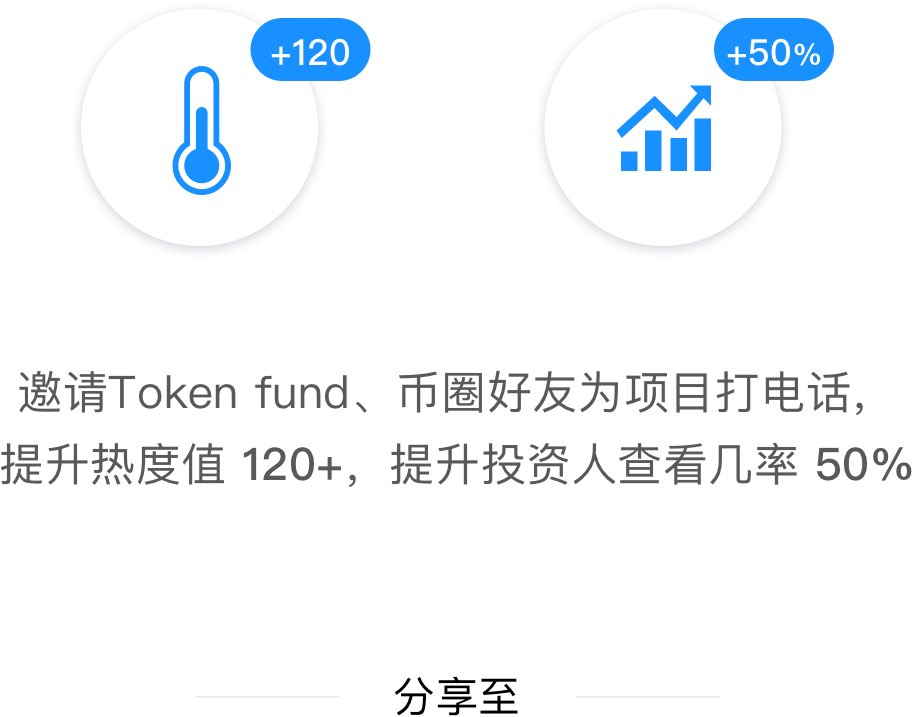
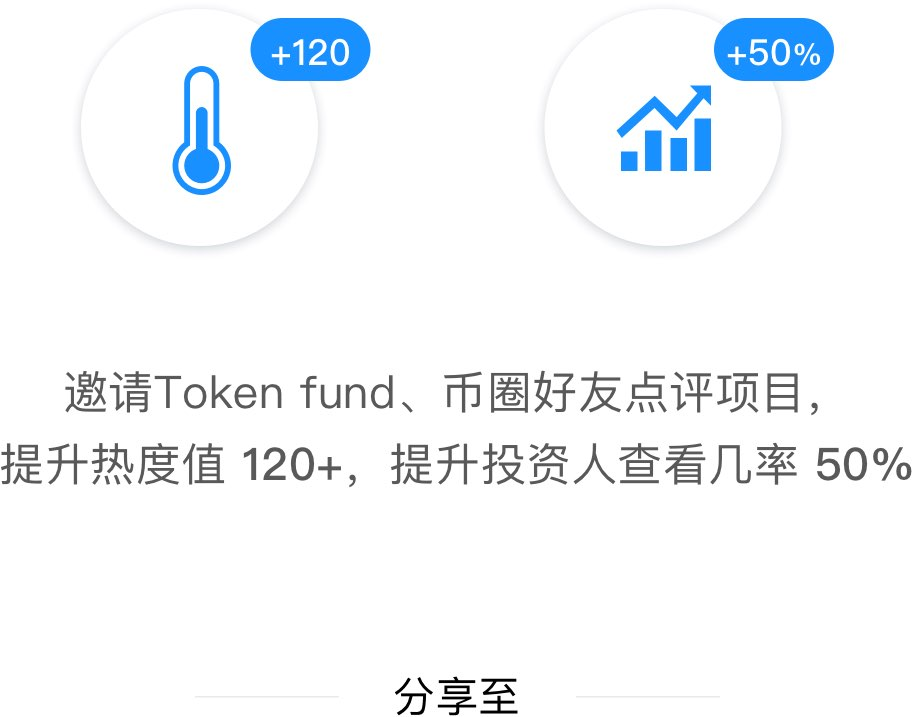
邀请「打电话」改为邀请「点评」

Changed region(s): [[0.0, 0.5216, 0.9518, 0.583]]

diff --git a/app/container/main/public_project/inviteComment/index.js b/app/container/main/public_project/inviteComment/index.js
@@ -43,7 +43,7 @@ class InviteComment extends Component {
       const request = {
         type: 'news',
         webpageUrl: `${Config.MOBILE_SITE}/coin/${item.id}/invite-comment`,
-        title: `邀请你来给 「${item.name}」打电话`,
+        title: `邀请你来点评 「${item.name}」`,
         description: '来 Hotnode, 帮项目提高热度！',
         thumbImage: item.icon || 'https://hotnode-production-file.oss-cn-beijing.aliyuncs.com/big_logo%403x.png',
       };
@@ -71,7 +71,7 @@ class InviteComment extends Component {
         <NavBar
           back
           gradient
-          title="邀请打电话"
+          title="邀请点评"
         />
         <ScrollView>
           <View style={{

diff --git a/app/component/public_project/hotnode_index.js b/app/component/public_project/hotnode_index.js
@@ -24,7 +24,7 @@ const hotnode_index = ({ data, onInvitedPress, showDaCall = true }) => {
         {showDaCall && (
           <Touchable borderless onPress={onInvitedPress}>
             <Text style={styles.top.invite}>
-              邀请「打电话」 <Icon name="arrow-forward" />
+              邀请「点评」 <Icon name="arrow-forward" />
             </Text>
           </Touchable>
         )}
